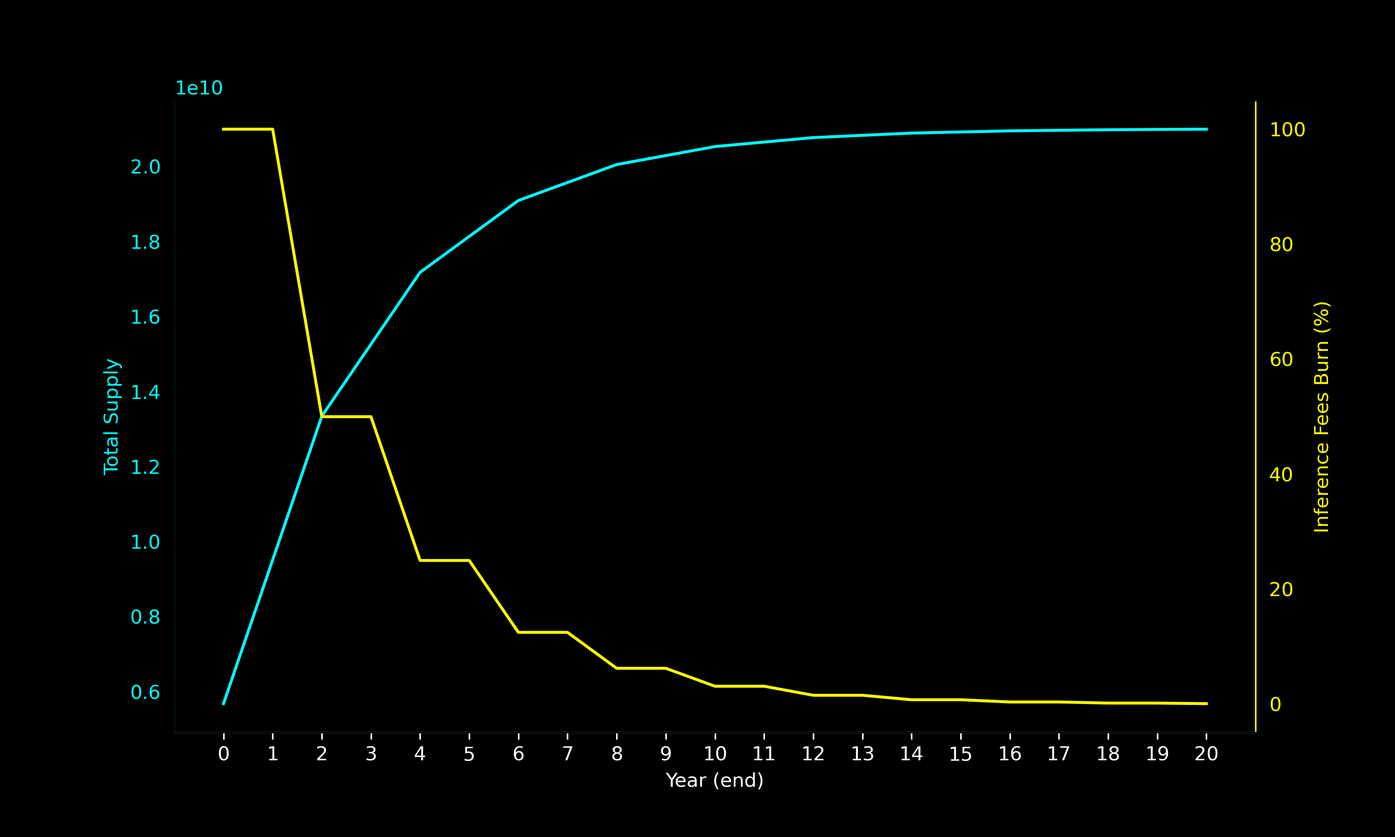
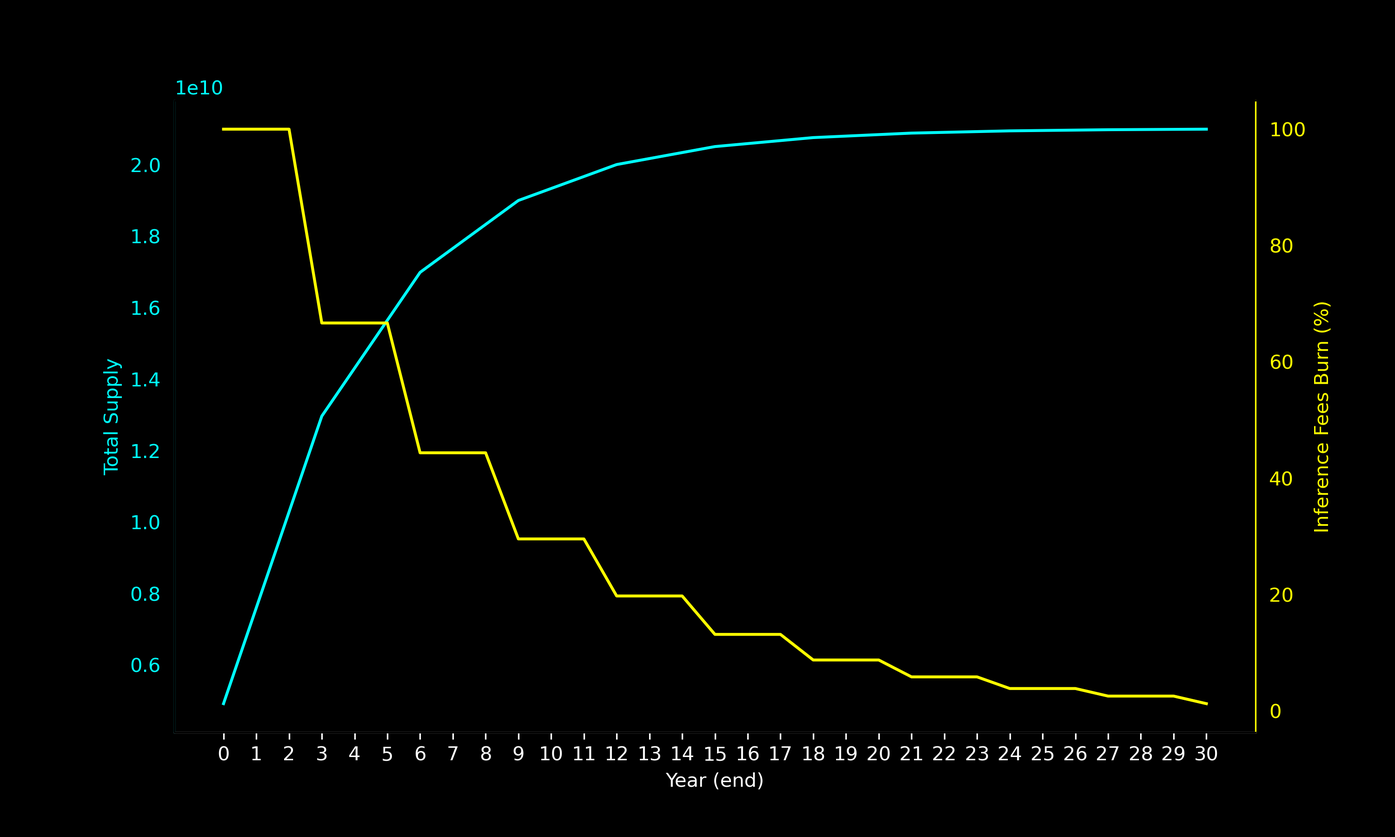
Updates

diff --git a/src/pages/applications/index.js b/src/pages/applications/index.js
@@ -9,10 +9,19 @@ const html = `
   <h2 style="text-align: center">Applications of Autonomous Economic AI Agents</h2>
 
   <p>
-  The combination of on-chain secure and scalable AI computation, the ERC-6551 Token Bound Standard that enables the UOMI AI agents to own and transact digital assets, and the ability of the UOMI network to sign blockchain transactions for its AI agents opens up a wide array of applications that were simply not possible before. AI agents cannot own bank accounts but can control crypto wallets. These innovations pave the way for new economic models and opportunities in the decentralized digital landscape. In the following paragraphs, we outline an incomplete list of some of the most promising applications.
+  The UOMI network leverages a powerful combination of on-chain secure and scalable AI computation, the ERC-6551 Token Bound Standard, and the network's ability to sign blockchain transactions for its AI agents. This convergence opens up a wide array of applications that were previously unimaginable. While AI agents cannot own traditional bank accounts, they can control crypto wallets, paving the way for new paradigms.
+  Just like for AI, the applications of the UOMI Network can be categorized into two main areas: General Applications and Narrow Applications.
   </p>
 
-  <h3>AI Oracles</h3>
+  <h3>General Applications</h3>
+  <p>
+  The future of AI lies in agentic frameworks. Influential papers such as "Mixture of Agents" and Aschenbrenner’s "Situational Awareness" highlight this trajectory. Today, we already see the emergence of agentic frameworks like BabyAGI and AutoGPT. These frameworks, combined with the  trajectory of frontier base models pointing beyond the chatbot paradigm towards AI agents, entails a new era for generative AI models capabilities.
+  The UOMI Network is designed for this future of agentic generative AI models. It enables AI agents to transcend simulated environments and make a tangible impact in the real world through economic agency — the ability to control digital assets. Public blockchains incentivize human participation in their operation and expansion through economic incentives. Similarly, UOMI Network-enabled agents represent a new form of digital life, capable of generating value for humans and covering their own computational expenses within the network.
+  </p>
+
+  <h3>Narrow applications<br>An incomplete list of some of the most promising use cases</h3>
+
+  <h4>AI Oracles</h4>
   <p>
     An AI Oracle serves as a bridge between the blockchain and the
     external world, providing reliable, tamper-proof, and interpreted data
@@ -35,7 +44,7 @@ const html = `
     the cornerstone towards fully automated and economically empowered AI
     systems.
   </p>
-  <h3>AI Managed Decentralized Autonomous Organization (DAO)</h3>
+  <h4>AI Managed Decentralized Autonomous Organization (DAO)</h4>
   <p>
     A Decentralized Autonomous Organization (DAO) is a blockchain-based
     entity governed by smart contracts and collective voting. There are
@@ -68,7 +77,7 @@ const html = `
       in achieving their goals.
     </li>
   </ul>
-  <h3>Expanding smart contract design space</h3>
+  <h4>Expanding smart contract design space</h4>
   <p>
     Under a traditional smart contract paradigm, among the universe of all
     possible “contracts” only the subset of those that are reducible to
@@ -110,9 +119,9 @@ const html = `
     applications, making blockchain technology more versatile and broadly
     applicable.
   </p>
-  <h3>
+  <h4>
     Fully automated Blockchain Trusts
-  </h3>
+  </h4>
   <p>
     A Trust is a fiduciary arrangement where one party, known as the
     trustor or grantor, transfers own- ership of assets to another party,
@@ -132,10 +141,10 @@ const html = `
     LLMs.
   </p>
 
-  <h3>
+  <h4>
     
     Adding Ricardian safeguards to smart contracts
-  </h3>
+  </h4>
   <p>
     Moving from the first conceptualizations of smart contracts from Nick
     Szabo to the actual implementations of those with Ethereum and other
@@ -168,10 +177,10 @@ const html = `
     contract code.
   </p>
 
-  <h3>
+  <h4>
     
     AI Digital Artist
-  </h3>
+  </h4>
   <p>
     An AI Digital Artist leverages machine learning models to create
     original artwork, music, or other forms of digital content.
@@ -192,9 +201,9 @@ const html = `
     inclusive digital art ecosystem.
   </p>
 
-  <h3>
+  <h4>
     AI Companion
-  </h3>
+  </h4>
   <p>
     AI Companions are advanced AI entities secured on-chain that offer
     personalized interactions tailored to individual needs, evolving over
@@ -218,9 +227,9 @@ const html = `
     personalities, skills, and relationships.
   </p>
 
-  <h3>
+  <h4>
     AI Gaming NPC
-  </h3>
+  </h4>
   <p>
     In the gaming industry, AI-powered Non-Player Characters (NPCs) can
     significantly enhance the gameplay experience by providing more
@@ -241,9 +250,9 @@ const html = `
     creating a digital ”Westworld”.
   </p>
 
-  <h3>
+  <h4>
     Decentralized Finance (DeFi) AI Trader
-  </h3>
+  </h4>
   <p>
     A Decentralized Finance (DeFi) AI Trader utilizes advanced machine
     learning algorithms to analyze market trends, predict price movements,

diff --git a/src/globals.css b/src/globals.css
@@ -31,11 +31,23 @@ body {
 .PageContent h4,
 .PageContent h5,
 .PageContent h6 {
-  font-size: 20px;
   text-align: center;
   font-family: 'Fira Code', monospace;
   font-weight: lighter;
 }
+
+.PageContent h2,
+.PageContent h3 {
+  font-size: 20px;
+}
+
+.PageContent h4,
+.PageContent h5,
+.PageContent h6
+ {
+  font-size: 18px;
+}
+
 
 .PageLatex {
   overflow-y: hidden;

diff --git a/public/latex/whitepaper.tex b/public/latex/whitepaper.tex
@@ -23,7 +23,7 @@
 \begin{abstract}
 
 
-Public blockchains like Bitcoin and Ethereum can be seen as self-replicating machines, organisms that leverage economic incentives to encourage human participation in their operation and expansion. This paper explores the potential integration of artificial intelligence into these systems, enabling the creation of autonomous economic agents. We propose a novel consensus architecture for a layer-one blockchain designed to embed secure AI computation while minimizing trust assumptions and computational overhead. This secure computing framework, built on the Optimized Proof of Computation (OPoC) consensus algorithm, enables reliable interactions between smart contracts and AI inferences, facilitating the development of self-sustaining AI economic agents. These entities are represented as NFTs on any EVM-compatible blockchain, possessing the capability to transact crypto-assets autonomously and cover their own computational expenses. By leveraging the OPoC consensus, we ensure robust security and economic incentives, fostering a new generation of blockchain-integrated AI systems.
+Public blockchains like Bitcoin and Ethereum can be seen as self-replicating machines, organisms that leverage economic incentives to encourage human participation in their operation and expansion. This paper explores the potential integration of artificial intelligence into these systems, enabling the creation of autonomous economic agents. We propose a novel consensus architecture for a layer-one blockchain designed to embed secure AI computation while minimizing trust assumptions and computational overhead. This secure computing framework, built on the Optimized Proof of Computation (OPoC) consensus algorithm, enables reliable interactions between smart contracts and AI inferences, facilitating the development of self-sustaining AI economic agents. These entities are represented as NFTs on any blockchain, possessing the capability to transact crypto-assets autonomously and cover their own computational expenses. By leveraging the OPoC consensus, we ensure robust security and economic incentives, fostering a new generation of blockchain-integrated AI systems.
 
 
 \end{abstract}
@@ -368,15 +368,24 @@ Since the keys are periodically refreshed, if an attacker manages to compromise 
 \section{Applications of Autonomous Economic AI Agents}
 
 
-The combination of on-chain secure and scalable AI computation, the ERC-6551 Token Bound Standard that enables the UOMI AI agents to own and transact digital assets, and the ability of the UOMI network to sign blockchain transactions for its AI agents opens up a wide array of applications that were simply not possible before. AI agents cannot own bank accounts but can control crypto wallets.
-These innovations pave the way for new economic models and opportunities in the decentralized digital landscape. In the following paragraphs, we outline an incomplete list of some of the most promising applications. 
+The UOMI network leverages a powerful combination of on-chain secure and scalable AI computation, the ERC-6551 Token Bound Standard, and the network's ability to sign blockchain transactions for its AI agents. This convergence opens up a wide array of applications that were previously unimaginable. While AI agents cannot own traditional bank accounts, they can control crypto wallets, paving the way for new paradigms.
+Just like for AI, the applications of the UOMI Network can be categorized into two main areas: General Applications and Narrow Applications.
 
-\subsection{AI Oracles}
+\subsection{General Application}
+
+The future of AI lies in agentic frameworks. Influential papers such as "Mixture of Agents" and Aschenbrenner’s "Situational Awareness" highlight this trajectory. Today, we already see the emergence of agentic frameworks like BabyAGI and AutoGPT. These frameworks, combined with the  trajectory of frontier base models pointing beyond the chatbot paradigm towards AI agents, entails a new era for generative AI models capabilities.
+
+The UOMI Network is designed for this future of agentic generative AI models. It enables AI agents to transcend simulated environments and make a tangible impact in the real world through economic agency — the ability to control digital assets. Public blockchains incentivize human participation in their operation and expansion through economic incentives. Similarly, UOMI Network-enabled agents represent a new form of digital life, capable of generating value for humans and covering their own computational expenses within the network.
+
+\subsection{Narrow applications: an incomplete list of some of the most promising use cases
+}
+
+\subsubsection{AI Oracles}
 
 An AI Oracle serves as a bridge between the blockchain and the external world, providing reliable, tamper-proof, and interpreted data feeds that smart contracts can use to make informed decisions. Traditional oracles such as Chainlink relay information such as financial data, weather updates, or sports results, which are then used in decentralized applications (dApps) for various purposes, such as triggering contract conditions or executing trades. With AI integration, oracles can perform more sophisticated tasks, such as interpreting complex datasets, conducting real-time analytics, and making predictive inferences. This means going far beyond the mere bridging of external data to the blockchain by enabling on-chain intelligence of those data. For instance, an AI Oracle could analyze social media trends to predict stock market movements or assess satellite images to decide if an insured event happened or not, all of this without humans in the loop. These AI-enhanced oracles ensure that smart contracts have not only access to high-quality, real-time data but also the actionable interpretation of those, thereby expanding the scope and reliability of decentralized applications. AI oracles are the cornerstone towards fully automated and economically empowered AI systems.
 
 
-\subsection{AI Managed Decentralized Autonomous Organization (DAO) }
+\subsubsection{AI Managed Decentralized Autonomous Organization (DAO) }
 
 A Decentralized Autonomous Organization (DAO) is a blockchain-based entity governed by smart contracts and collective voting. There are two main intersections between DAOs and AI that are enabled by UOMI network:
 
@@ -390,7 +399,7 @@ A Decentralized Autonomous Organization (DAO) is a blockchain-based entity gover
 
 \end{itemize}
 
-\subsection{Expanding smart contract design space}
+\subsubsection{Expanding smart contract design space}
 
 Under a traditional smart contract paradigm, among the universe of all possible “contracts” only the subset of those that are reducible to formal logic could be transposed on-chain in the form of a smart-contract. The introduction of on-chain secure AI computation enables more complex and nuanced agreements to be automated as smart contracts having onchain LLMs acting as a third party interpreting a loosely defined concept or event.
 Consider the following examples:
@@ -410,29 +419,29 @@ None of these conditions can be formally defined and included in a traditional s
 
 
 
-\subsection{Fully automated Blockchain Trusts}
+\subsubsection{Fully automated Blockchain Trusts}
 
 A Trust is a fiduciary arrangement where one party, known as the trustor or grantor, transfers ownership of assets to another party, known as the trustee, who manages those assets for the benefit of a third party, known as the beneficiary. Trusts are commonly used in estate planning to ensure that assets are managed and distributed according to the trustor’s wishes, both during their lifetime and after their death. The Trust deeds, defining the rules and the scope of the Trust, are nuanced and difficult to reduce to the formal logic smart contracts require to operate. The UOMI network, enabling secure AI computation, allows for the on-chain existence of such fiduciary arrangements by substituting the trustee interpreting and executing the trustor wishes with AIs that can interpret the trust deed and transact the digital assets it controls accordingly. Fully automated Blockchain trusts are a new kind of entity, built by combining human will with the interpretation and enaction capabilities of on-chain LLMs. 
 
-\subsection{Adding Ricardian safeguards to smart contracts}
+\subsubsection{Adding Ricardian safeguards to smart contracts}
 
 Moving from the first conceptualizations of smart contracts from Nick Szabo to the actual implementations of those with Ethereum and other Turing complete blockchains, we had the opportunity to factually test what are the strengths and the limitations of smart-contracts. The “code is law” paradigm that grants objectivity and disintermediation in the execution of contracts creates a new philosophical dilemma: what if the intent of the smart contract is not correctly encoded in the computer program published on the blockchain? What if there is a bug in the code? Rather than just a philosophical dilemma, such an issue emerged multiple times in the blockchain space, with the Ethereum DAO HACK as an archetype of such a dilemma. A potential mitigation of this dilemma has been proposed by Dan Larimer, founder of EOS, with the introduction of Ricardian contracts, a concept that was first introduced by Ian Grigg who described those as follows: “A Ricardian contract is a digital contract that defines the terms and conditions of interaction, between two or more peers, that is cryptographically signed and verified. Importantly it is both human and machine readable and digitally signed”. Such an additional human-readable text explaining the intent of the code can clearly separate the correct interaction with a smart contract code from an exploit of a bug in it. Yet it requires human intervention and interpretation to solve the dispute thus defeating some of the most important features of smart contracts, their objectivity and automatic execution. With the introduction of on-chain AI systems, we can imagine AI agents that control if the execution of a smart contract code conflicts with the Ricardian description of what the smart contract is supposed to do. This adds an additional and flexible security layer over the purely mechanical rules expressed by smart contract code. 
 
 
-\subsection{AI Digital Artist}
+\subsubsection{AI Digital Artist}
 
 An AI Digital Artist leverages machine learning models to create original artwork, music, or other forms of digital content. Considering the capability of the UOMI network to sign blockchain transactions for the AI agents, these AI-generated pieces can be minted as NFTs, ensuring ownership, authenticity, and provenance on the blockchain. The AI Digital Artist can learn from vast datasets of existing artworks to develop its own unique style, producing high-quality, novel creations that can be sold or auctioned in digital marketplaces. This capability democratizes the creation of art, allowing for diverse and innovative artistic expressions. Furthermore, the AI Digital Artist can interact with buyers, customize pieces based on user preferences, and even collaborate with human artists in real time. By requesting crypto payments for each creation, the AI Digital Artist can generate enough revenue to pay for its own computational expenses, thus operating indefinitely. New economic opportunities emerge for artists and collectors alike, fostering a vibrant and inclusive digital art ecosystem. 
 
-\subsection{AI Companion}
+\subsubsection{AI Companion}
 
 AI Companions are advanced AI entities secured on-chain that offer personalized interactions tailored to individual needs, evolving over time to become more attuned to users’ personalities and preferences. As digital friends, they engage in meaningful conversations, provide emotional support, and share daily activities. As personal assistants, they manage schedules, set reminders, suggest activities, and offer educational content, ensuring secure handling of personal data while learning to offer increasingly personalized assistance. For those seeking deeper connections, AI Companions can function as virtual boyfriends or girlfriends, providing a sense of intimacy and partnership through thoughtful conversations and shared interests. Those entities, represented by NFTs can be directly owned by users or can be publicly accessible. Publicly accessible AI companions can become economically self-sustainable through the value they generate for their users,  they can monetize interactions, such as offering personalized advice or exclusive content, creating a direct revenue stream that supports their operation and development. Additionally, AI Companions can be bought, sold, or traded in digital marketplaces, providing an economic layer where owners can monetize their unique personalities, skills, and relationships.
 
-\subsection{AI Gaming NPC}
+\subsubsection{AI Gaming NPC}
 
 
 In the gaming industry, AI-powered Non-Player Characters (NPCs) can significantly enhance the gameplay experience by providing more realistic, adaptive, and engaging interactions. These AI NPCs can learn from player behavior, adapt their strategies, and contribute to dynamic and immersive game worlds. On the blockchain, AI NPCs can be represented as NFTs, enabling unique, persistent, and tradable in-game characters. Players can own, customize, and monetize their AI NPCs, creating new revenue streams and adding value to the gaming ecosystem. Moreover, AI NPCs, being able to own digital assets themselves through the ERC-6551 standard, can participate in decentralized gaming economies, autonomously trade in-game assets, or even compete in player-vs-player environments. By integrating AI into gaming, developers can create richer, more interactive experiences that adapt to player preferences and actions, fostering deeper engagement and enjoyment. Finally, AI NPCs can interact with each other, creating independently evolving games and, more generally, virtual societies, creating a digital "Westworld".
 
-\subsection{Decentralized Finance (DeFi) AI Trader}
+\subsubsection{Decentralized Finance (DeFi) AI Trader}
 
 
 A Decentralized Finance (DeFi) AI Trader utilizes advanced machine learning algorithms to analyze market trends, predict price movements, and execute trades autonomously on decentralized exchanges (DEXs). This AI agent can be represented as an NFT, ensuring transparency, accountability, and ownership. The AI Trader can continuously monitor various financial metrics, news, and market signals to make informed trading decisions, optimizing for maximum returns while managing risk. Additionally, it can engage in arbitrage opportunities, liquidity provision, and yield farming strategies, adapting to market conditions in real time. If its strategies are successful the AI agent can generate enough value to pay for its own computational expenses and keep operating indefinitely on the blockchain.
@@ -444,34 +453,44 @@ A Decentralized Finance (DeFi) AI Trader utilizes advanced machine learning algo
 
 \subsection{UOMI Token Emission}
 
-The UOMI Network will issue a total of 21 billion tokens. A quantity of 5,684,970,703 tokens will be pre-minted to bootstrap the network’s liquidity, support the governance DAO, and enable the staking requirements to run the nodes. The remaining tokens will be gradually released over a 20-year period to incentivize nodes to execute computations, encourage stakers to select the most effective node operators, and engage token holders in governance activities. At its launch, the network will issue 10.5 million tokens every 24-hour epoch. The max supply cap is granted by a 2 years halving schedule for the token emission of each epoch. Here below is the issuance schedule detailing rewards per epoch and total and cumulative issuance per year; the epoch reward will start at the launch of the main-net beta scheduled for the 4th quarter 2024.
+The UOMI Network will issue a total of 21 billion tokens. A quantity of 4,919,219,238 tokens will be pre-minted to bootstrap the network’s liquidity, support the governance DAO, and enable the staking requirements to run the nodes. The remaining tokens will be gradually released over a 30-year period to incentivize nodes to execute computations, encourage stakers to select the most effective node operators, and engage token holders in governance activities. At its launch, the network will issue 7,350,000 tokens every 24-hour epoch. The max supply cap is granted by a 3 years halving schedule for the token emission of each epoch. Here below is the issuance schedule detailing rewards per epoch and total and cumulative issuance per year; the epoch reward will start at the launch of the main-net beta scheduled for the 4th quarter 2024.
 
 \begin{center}
 ***
 "type": "table",
 "headers": ["Year (end)", "Epoch Reward", "Emission by year", "Total Supply"],
 "rows": [
-  [0, "", 5684970703, 5684970703],
-  [1, 10500000, 3832500000, 9517470703],
-  [2, 10500000, 3832500000, 13349970703],
-  [3, 5250000, 1916250000, 15266220703],
-  [4, 5250000, 1916250000, 17182470703],
-  [5, 2625000, 958125000, 18140595703],
-  [6, 2625000, 958125000, 19098720703],
-  [7, 1312500, 479062500, 19577783203],
-  [8, 1312500, 479062500, 20056845703],
-  [9, 656250, 239531250, 20296376953],
-  [10, 656250, 239531250, 20535908203],
-  [11, 328125, 119765625, 20655673828],
-  [12, 328125, 119765625, 20775439453],
-  [13, 164063, 59882813, 20835322266],
-  [14, 164063, 59882813, 20895205078],
-  [15, 82031, 29941406, 20925146484],
-  [16, 82031, 29941406, 20955087891],
-  [17, 41016, 14970703, 20970058594],
-  [18, 41016, 14970703, 20985029297],
-  [19, 20508, 7485352, 20992514648],
-  [20, 20508, 7485352, 21000000000]
+  [0, "", 4919219238, 4919219238],
+  [1, 7350000, 2682750000, 7601969238],
+  [2, 7350000, 2682750000, 10284719238],
+  [3, 7350000, 2682750000, 12967469238],
+  [4, 3675000, 1341375000, 14308844238],
+  [5, 3675000, 1341375000, 15650219238],
+  [6, 3675000, 1341375000, 16991594238],
+  [7, 1837500, 670687500, 17662281738],
+  [8, 1837500, 670687500, 18332969238],
+  [9, 1837500, 670687500, 19003656738],
+  [10, 918750, 335343750, 19339000488],
+  [11, 918750, 335343750, 19674344238],
+  [12, 918750, 335343750, 20009687988],
+  [13, 459375, 167671875, 20177359863],
+  [14, 459375, 167671875, 20345031738],
+  [15, 459375, 167671875, 20512703613],
+  [16, 229688, 83835938, 20596539551],
+  [17, 229688, 83835938, 20680375488],
+  [18, 229688, 83835938, 20764211426],
+  [19, 114844, 41917969, 20806129395],
+  [20, 114844, 41917969, 20848047363],
+  [21, 114844, 41917969, 20889965332],
+  [22, 57422, 20958984, 20910924316],
+  [23, 57422, 20958984, 20931883301],
+  [24, 57422, 20958984, 20952842285],
+  [25, 28711, 10479492, 20963321777],
+  [26, 28711, 10479492, 20973801270],
+  [27, 28711, 10479492, 20984280762],
+  [28, 14355, 5239746, 20989520508],
+  [29, 14355, 5239746, 20994760254],
+  [30, 14355, 5239746, 21000000000]
 ]
 ***
 \end{center}
@@ -485,11 +504,9 @@ In order to discourage Byzantine behavior among nodes utilizing both the Proof o
 The emission of each epoch \(T\) is completely distributed at the epoch's end to the network participants that met the staking criteria and complied with the protocol consensus rules in epochs \( T_{-1} \) and \(T_0\). Only in the case of inactivity leak, described in the former chapters rewards are not distributed. It is not necessary that a validator produced any inference under OPoC during the epoch to be eligible for the rewards, since the availability of the computing power has a value - and a cost for the provider - whether it is used or not. 
 Yet, in case a validator is randomly selected to run a computation, and it does not perform it - inactivity leak -, he will be slashed by an amount equal to issuance that would have been assigned to him in case it did perform the computation correctly. No rewards will be distributed to such a validator until he is selected again to run a computation and perform it correctly. In case a disagreement on a computation arises, all of the stakes of the byzantine validators will be slashed. The slashing rules apply to both direct and delegated staking. Such an equivalence in the treatment of direct and delegated stakers ensures that the latter has the incentive to delegate to honest validators.
 
-
-The minimum direct staking requirement to run a node is 8,000,000 UOMI tokens, while the maximum amount of staked tokens a node operator can earn rewards on is 16,000,000 UOMI tokens. Balances exceeding the maximum staking amount will not account for the calculation of the share of issuance distribution. Such a limit ensures that there is limited variability in the value at stake for each node, avoiding excessive incentive extraction by single actors and enforcing a comparable value at risk for each validator.
-Issuance rewards can be withdrawn by node operators only once they reach the amount of 16,000,000 staked tokens. Such a rule facilitates the onboarding of new node operators by decreasing the entry barrier to 8,000,000 UOMI tokens, yet it allows for the maximization of capital at stake and, thus, economic assurances of both the POS and OPoC consensus mechanisms. It’s also worth to mention that such a rule doubles the protocol’s direct staking “working capital”, that is the number of tokens absorbed by the network from the market.
+The minimum direct staking requirement to run a node is 8,000,000 UOMI tokens. Balances exceeding the maximum staking amount will not account for the calculation of the share of issuance distribution. Such a limit ensures that there is limited variability in the value at stake for each node, avoiding excessive incentive extraction by single actors and enforcing a comparable value at risk for each validator.
+Issuance rewards can be withdrawn by node operators only once they reach the amount of 4,000,000 token rewards. Such a rule facilitates the onboarding of new node operators by decreasing the entry barrier to 8,000,000 UOMI tokens, yet it allows for the maximization of capital at stake and, thus, economic assurances of both the POS and OPoC consensus mechanisms. It’s also worth to mention that such a rule increases the protocol’s direct staking “working capital”, that is the number of tokens absorbed by the network from the market.
 Taken issued during each epoch - excluding the inactivity leak epochs - will be distributed as follows to eligible node operators (direct stakers), delegate stakers and veUOMI holders:
-
 
 \begin{itemize}
 \item Direct stakers: \(60\% \)
@@ -557,7 +574,7 @@ In the first phase, the value of MC i and MC o will be decided for each model fa
 \[\text{Computational Complexity} = \text{Image\_size} \times \text{N\_steps} \times \text{MC\_o} \]
 
 Since the nodes performing the inferences are already rewarded by the UOMI token issuance, a variable percentage of the tokens gained by the network with the inference payments will be burned to decrease token supply and sustain the economic value of UOMI token, while the rest will be distributed to the Nodes of the network. 
-Token burn will go from \( 100\%\) at the launch of the network to \( 0\%\) in the 20th year by following the UOMI token halving emission schedule, thus gradually replacing the emission incentive for the nodes with the fees generated by inference requests. 
+Token burn will go from \( 100\%\) at the launch of the network to \( 0\%\) in the 30th year by following the UOMI token halving emission schedule, thus gradually replacing the emission incentive for the nodes with the fees generated by inference requests. 
 
 
 
@@ -567,26 +584,36 @@ Token burn will go from \( 100\%\) at the launch of the network to \( 0\%\) in t
 "type": "table",
 "headers": ["Year", "Epoch Emission", "Inference fee burn"],
 "rows": [
-  [1, 10500000, "100.00\%"],
-  [2, 10500000, "100.00\%"],
-  [3, 5250000, "50.00\%"],
-  [4, 5250000, "50.00\%"],
-  [5, 2625000, "25.00\%"],
-  [6, 2625000, "25.00\%"],
-  [7, 1312500, "12.50\%"],
-  [8, 1312500, "12.50\%"],
-  [9, 656250, "6.25\%"],
-  [10, 656250, "6.25\%"],
-  [11, 328125, "3.13\%"],
-  [12, 328125, "3.13\%"],
-  [13, 164063, "1.56\%"],
-  [14, 164063, "1.56\%"],
-  [15, 82031, "0.78\%"],
-  [16, 82031, "0.78\%"],
-  [17, 41016, "0.39\%"],
-  [18, 41016, "0.39\%"],
-  [19, 20508, "0.20\%"],
-  [20, 20508, "0.20\%"]
+  [1, 7350000, 100.0],
+  [2, 7350000, 100.0],
+  [3, 7350000, 100.0],
+  [4, 3675000, 66.7],
+  [5, 3675000, 66.7],
+  [6, 3675000, 66.7],
+  [7, 1837500, 44.4],
+  [8, 1837500, 44.4],
+  [9, 1837500, 44.4],
+  [10, 918750, 29.6],
+  [11, 918750, 29.6],
+  [12, 918750, 29.6],
+  [13, 459375, 19.8],
+  [14, 459375, 19.8],
+  [15, 459375, 19.8],
+  [16, 229688, 13.2],
+  [17, 229688, 13.2],
+  [18, 229688, 13.2],
+  [19, 114844, 8.8],
+  [20, 114844, 8.8],
+  [21, 114844, 8.8],
+  [22, 57422, 5.9],
+  [23, 57422, 5.9],
+  [24, 57422, 5.9],
+  [25, 28711, 3.9],
+  [26, 28711, 3.9],
+  [27, 28711, 3.9],
+  [28, 14355, 2.6],
+  [29, 14355, 2.6],
+  [30, 14355, 2.6]
 ]
 ***
 \end{center}
